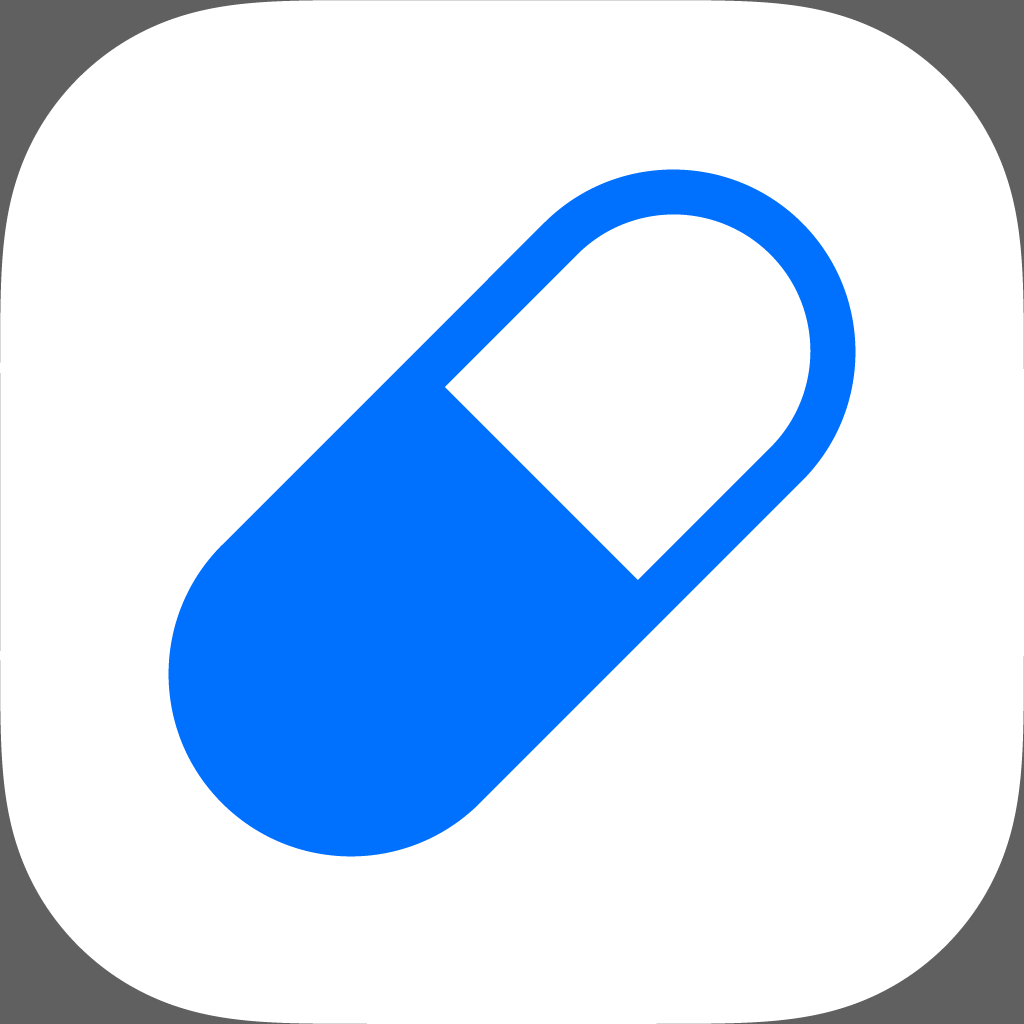
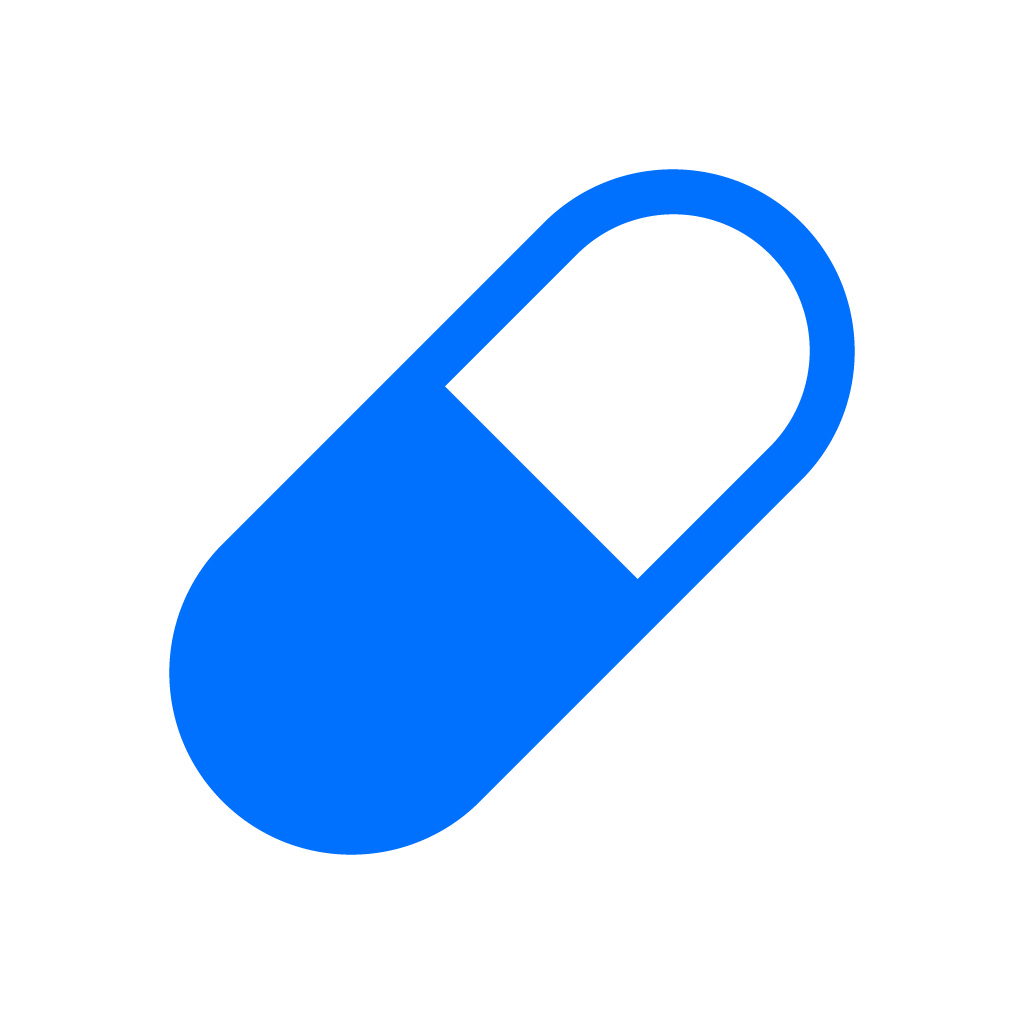
feat: mettre à jour les icônes de l'application mobile et ajouter un inventaire des icônes

diff --git a/apps/mobile/scripts/export-illustrator-icons.jsx b/apps/mobile/scripts/export-illustrator-icons.jsx
@@ -1,0 +1,162 @@
+/*
+  Illustrator ExtendScript for MediTime mobile icon exports.
+
+  Usage:
+  1. Open the Illustrator source file.
+  2. Keep the icon artwork on transparent artboards. The script adds an
+     opaque background only for iOS app-icon PNG exports.
+  3. Optional artboard names:
+     - icon, app-icon, ios-icon
+     - icon-dark, ios-dark
+     - icon-tinted, ios-tinted, tinted
+     - adaptive-icon, adaptive
+     - adaptive-icon-dark, adaptive-dark, monochrome
+     - splash-icon, splash
+  4. Run this script from Illustrator: File > Scripts > Other Script...
+
+  The script exports icon-only square PNGs. It does not export rectangular logos.
+  iOS exports are 1024x1024 without pre-rounded corners; Apple applies masking.
+*/
+
+#target illustrator
+
+(function () {
+  if (app.documents.length === 0) {
+    alert('Open the Illustrator icon document before running this script.');
+    return;
+  }
+
+  var doc = app.activeDocument;
+  var scriptFile = new File($.fileName);
+  var mobileDir = scriptFile.parent.parent;
+
+  var outputs = [
+    {
+      names: ['icon', 'app-icon', 'ios-icon'],
+      relativePath: 'assets/icon.png',
+      size: 1024,
+      transparent: false,
+      background: [255, 255, 255]
+    },
+    {
+      names: ['icon-dark', 'ios-dark'],
+      fallbackNames: ['icon', 'app-icon', 'ios-icon'],
+      relativePath: 'assets/icon-dark.png',
+      size: 1024,
+      transparent: false,
+      background: [12, 18, 24]
+    },
+    {
+      names: ['icon-tinted', 'ios-tinted', 'tinted'],
+      fallbackNames: ['icon-dark', 'ios-dark', 'icon', 'app-icon', 'ios-icon'],
+      relativePath: 'assets/icon-tinted.png',
+      size: 1024,
+      transparent: false,
+      background: [12, 18, 24]
+    },
+    {
+      names: ['adaptive-icon', 'adaptive'],
+      fallbackNames: ['icon', 'app-icon', 'ios-icon'],
+      relativePath: 'assets/adaptive-icon.png',
+      size: 1024,
+      transparent: true
+    },
+    {
+      names: ['adaptive-icon-dark', 'adaptive-dark', 'monochrome'],
+      fallbackNames: ['adaptive-icon', 'adaptive', 'icon-dark', 'icon'],
+      relativePath: 'assets/adaptive-icon-dark.png',
+      size: 1024,
+      transparent: true
+    },
+    {
+      names: ['splash-icon', 'splash'],
+      fallbackNames: ['icon', 'app-icon', 'ios-icon'],
+      relativePath: 'assets/splash-icon.png',
+      size: 200,
+      transparent: true
+    }
+  ];
+
+  function normalizeName(value) {
+    return String(value || '').toLowerCase().replace(/[^a-z0-9]+/g, '-').replace(/^-|-$/g, '');
+  }
+
+  function findArtboard(names) {
+    var wanted = {};
+    for (var i = 0; i < names.length; i += 1) {
+      wanted[normalizeName(names[i])] = true;
+    }
+
+    for (var index = 0; index < doc.artboards.length; index += 1) {
+      if (wanted[normalizeName(doc.artboards[index].name)]) {
+        return index;
+      }
+    }
+
+    return -1;
+  }
+
+  function ensureFolder(folder) {
+    if (folder.exists) {
+      return;
+    }
+
+    ensureFolder(folder.parent);
+    folder.create();
+  }
+
+  function fileFor(relativePath) {
+    var file = new File(mobileDir.fsName + '/' + relativePath);
+    ensureFolder(file.parent);
+    return file;
+  }
+
+  function artboardWidth(index) {
+    var rect = doc.artboards[index].artboardRect;
+    return Math.abs(rect[2] - rect[0]);
+  }
+
+  function exportPng(index, output) {
+    doc.artboards.setActiveArtboardIndex(index);
+
+    var scale = (output.size / artboardWidth(index)) * 100;
+    var options = new ExportOptionsPNG24();
+    options.antiAliasing = true;
+    options.artBoardClipping = true;
+    options.horizontalScale = scale;
+    options.verticalScale = scale;
+    options.transparency = output.transparent;
+
+    if (!output.transparent && output.background) {
+      var matteColor = new RGBColor();
+      matteColor.red = output.background[0];
+      matteColor.green = output.background[1];
+      matteColor.blue = output.background[2];
+      options.matte = true;
+      options.matteColor = matteColor;
+    }
+
+    doc.exportFile(fileFor(output.relativePath), ExportType.PNG24, options);
+  }
+
+  var exported = [];
+  var firstArtboard = 0;
+
+  for (var i = 0; i < outputs.length; i += 1) {
+    var output = outputs[i];
+    var artboard = findArtboard(output.names);
+
+    if (artboard < 0 && output.fallbackNames) {
+      artboard = findArtboard(output.fallbackNames);
+    }
+
+    if (artboard < 0) {
+      artboard = firstArtboard;
+    }
+
+    exportPng(artboard, output);
+    exported.push(output.relativePath + ' (' + output.size + 'x' + output.size + ')');
+  }
+
+  alert('Exported:\n' + exported.join('\n'));
+})();

diff --git a/apps/mobile/app.config.js b/apps/mobile/app.config.js
@@ -21,7 +21,7 @@ const config = {
     icon: {
       light: './assets/icon.png',
       dark: './assets/icon-dark.png',
-      tinted: './assets/icon-dark.png',
+      tinted: './assets/icon-tinted.png',
     },
   },
   android: {

diff --git a/apps/mobile/assets/ICON_ASSETS.md b/apps/mobile/assets/ICON_ASSETS.md
@@ -1,0 +1,52 @@
+# Mobile icon inventory
+
+Scope: `apps/mobile` only. The web copies in `apps/web/public/icons` are still used by the web app, SEO metadata, manifests, PDF logo URLs and email templates.
+
+## Used icon files
+
+| File | Used as | Size | Background rule |
+| --- | --- | ---: | --- |
+| `assets/icon.png` | Expo app icon from `app.json` and iOS default/light icon from `app.config.js` | 1024 x 1024 | Opaque PNG export with a light background. Do not pre-round corners; Apple masks the square icon. |
+| `assets/icon-dark.png` | iOS dark icon from `app.config.js` | 1024 x 1024 | Opaque PNG export with a dark background. Do not pre-round corners. |
+| `assets/icon-tinted.png` | iOS tinted icon from `app.config.js` | 1024 x 1024 | Dedicated opaque/tint-friendly variant. Keep the mark simple and high contrast. |
+| `assets/adaptive-icon.png` | Android adaptive foreground from `app.config.js` / `app.json` | 1024 x 1024 | Transparent background allowed. Keep the visible mark inside the adaptive safe area. |
+| `assets/adaptive-icon-dark.png` | Android monochrome adaptive icon from `app.config.js` | 1024 x 1024 | Transparent background allowed. Artwork should work as a single-color mask. |
+| `assets/splash-icon.png` | Expo splash image from `app.json` | 200 x 200 | Transparent background allowed. Icon-only, no rectangular logo. |
+| `assets/icons/pills/*.png` | Pillbox fill-state icons in `src/screens/calendar/PillboxScreen.tsx` | 320 x 320 | Transparent background allowed. Generated from the matching SVG files. |
+| `assets/icons/pills/*.svg` | Source files for `scripts/convert-pill-svgs.mjs` | vector | Transparent background source. |
+
+## Apple icon rules applied
+
+Apple's Human Interface Guidelines define iOS/iPadOS app icons as square `1024 x 1024 px` layouts. The system applies the rounded-rectangle mask, so exported files must stay square and must not include manually rounded corners.
+
+Apple now treats app icons as layered designs with appearance variants: default, dark, clear light, clear dark, tinted light and tinted dark. This Expo setup maps the practical mobile exports to `light`, `dark` and `tinted` PNG files in `app.config.js`. Because these PNGs are not an Icon Composer package, the iOS app-icon exports are made opaque with an explicit background.
+
+Transparent Illustrator artboards are still correct as sources. The export script adds the required opaque background only for the iOS app-icon PNGs. Android adaptive icons, splash and internal pill icons remain transparent.
+
+## Apple design checklist
+
+Use this checklist for the Illustrator source before exporting Apple app icons:
+
+| Rule | Applied expectation |
+| --- | --- |
+| Shape | Square artboards only for iOS/iPadOS/macOS. Do not draw rounded corners or masks. |
+| Size | Export Apple app icons at `1024 x 1024 px`; the system generates smaller sizes. |
+| Background | Full-bleed opaque background layer. A solid color or subtle vertical gradient is preferred. |
+| Foreground | One simple centered mark, preferably vector, with clearly defined edges. Avoid feathered/soft edges. |
+| Safe content | Keep the main mark centered and away from the outer edges so system corner masking does not truncate it. |
+| Layers | Keep Illustrator source layers separated: background plus one or more foreground layers. For native Apple production, import those layers into Icon Composer. |
+| Variants | Keep the same core mark across default, dark and tinted variants. Do not swap major elements between variants. |
+| Dark variant | Base it on the light icon, use complementary subdued colors and a dark color background with strong contrast. |
+| Tinted variant | Keep it simple and legible; avoid relying on many small colors or details. |
+| Effects | Do not bake in heavy highlights, shadows, bevels, blur or glow. Let Apple system effects handle depth where Icon Composer is used. |
+| Text | Avoid text unless it is essential to the brand. Do not include the app name in the icon. |
+| Content | Use an illustration or symbol, not a photo, screenshot, UI replica or Apple hardware replica. |
+| Color space | Use sRGB unless a specific Display P3 workflow is intentionally chosen. |
+
+For this Expo mobile app, `assets/icon.png`, `assets/icon-dark.png` and `assets/icon-tinted.png` are flattened PNG outputs for the current config. The Illustrator file should still keep separate layers so the same artwork can be imported into Apple's Icon Composer later if the native iOS project adopts layered icon assets.
+
+## Removed from mobile
+
+The following mobile copies were not referenced by `apps/mobile`: `assets/favicon.png`, `assets/icons/apple-touch-icon.png`, `assets/icons/favicon.ico`, `assets/icons/icon-16.png`, `assets/icons/icon-32.png`, `assets/icons/icon-48.png`, `assets/icons/icon-192.png`, `assets/icons/icon-512.png`, `assets/icons/logo.png`, `assets/icons/logo.webp`, `assets/icons/logo_white.png`, `assets/icons/logo_white.webp`, `assets/icons/og-image.png`, `assets/icons/datamatrix.webp`.
+
+Their web equivalents were kept in `apps/web/public/icons` because they are used outside the mobile app.